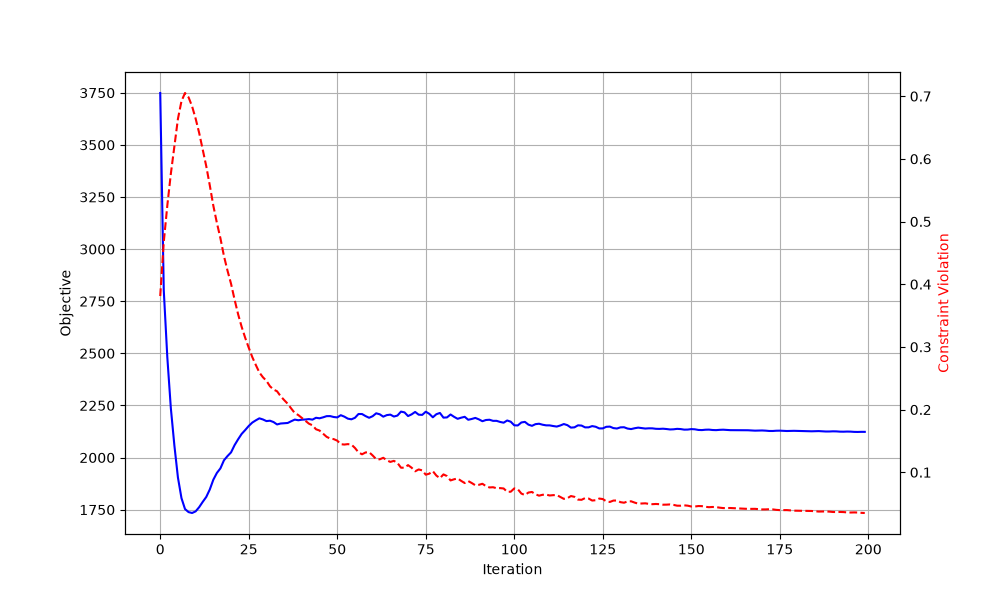
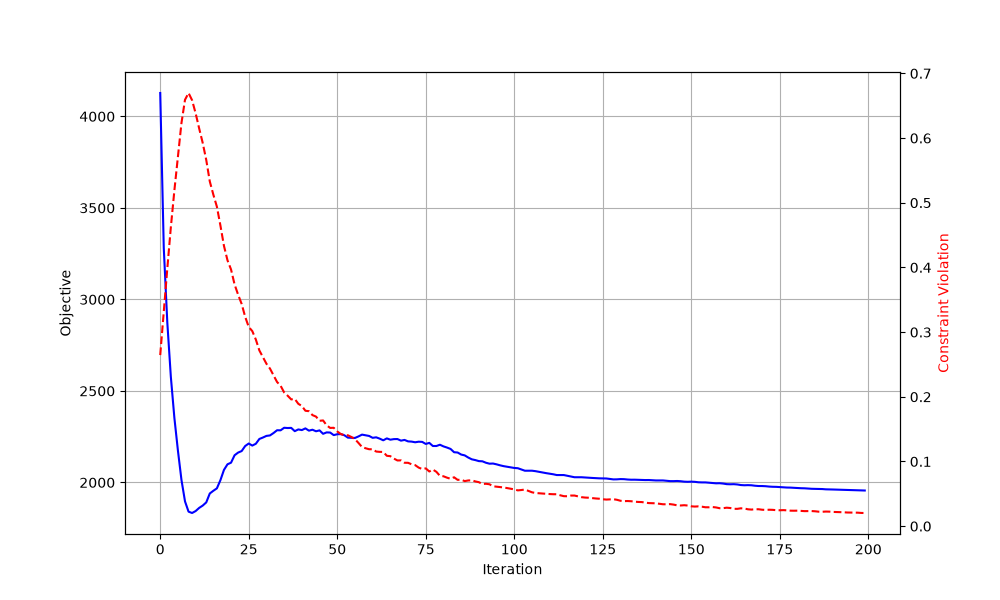
.

diff --git a/src/optim_nn.py b/src/optim_nn.py
@@ -358,15 +358,14 @@ class Optimizer_Neural:
             #  Constraint contributions
             # ---------------------------------------------
             constraint_status = []
-            if getattr(opt.nn_params, 'use_tounn_logic', False):
-                # TOuNN calculates volume natively in PyTorch
-                target_vol = params.target_volume if hasattr(params, 'target_volume') else 0.5
-                volConstraint = (torch.mean(rho_tensor) / target_vol) - 1.0
-                loss += tounn_alpha * torch.pow(volConstraint, 2)
-                tounn_alpha = min(tounn_alpha_max, tounn_alpha + tounn_alpha_inc)
-                constraint_status.append(f"VolViol={volConstraint.item():+.4f}")
-            else:
-                for i, c_type in enumerate(opt.parameters.constraint_types):
+            for i, c_type in enumerate(opt.parameters.constraint_types):
+                if c_type == 'volume' and getattr(opt.nn_params, 'use_tounn_logic', False):
+                    # TOuNN calculates volume natively in PyTorch
+                    target_vol = params.target_volume if hasattr(params, 'target_volume') else 0.5
+                    volConstraint = (torch.mean(rho_tensor) / target_vol) - 1.0
+                    loss += tounn_alpha * torch.pow(volConstraint, 2)
+                    constraint_status.append(f"VolViol={volConstraint.item():+.4f}")
+                else:
                     scale_i = (opt.functions.constraint_scale[i]
                                if isinstance(opt.functions.constraint_scale, (list, tuple, np.ndarray))
                                else opt.functions.constraint_scale)
@@ -385,6 +384,9 @@ class Optimizer_Neural:
                         active_constraint = torch.relu(lam + mu * fval_tensor)
                         penalty = (active_constraint**2 - lam**2) / (2.0 * mu)             
                         loss += penalty
+            
+            if getattr(opt.nn_params, 'use_tounn_logic', False):
+                tounn_alpha = min(tounn_alpha_max, tounn_alpha + tounn_alpha_inc)
 
             # ---------------------------------------------
             #  Backpropagate & optimize NN weights